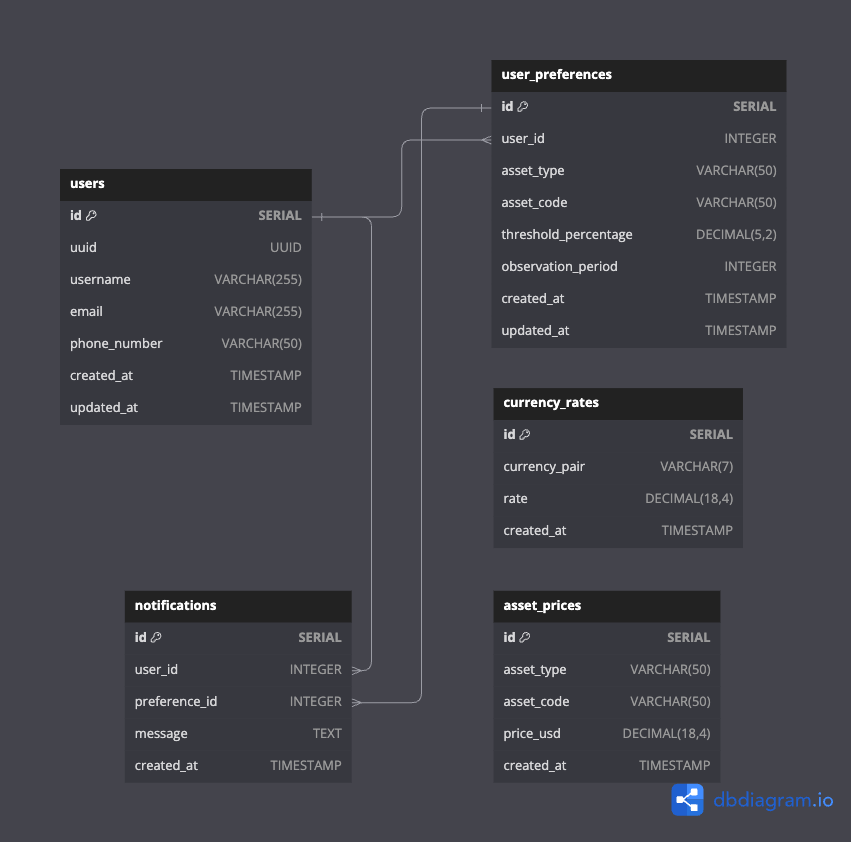
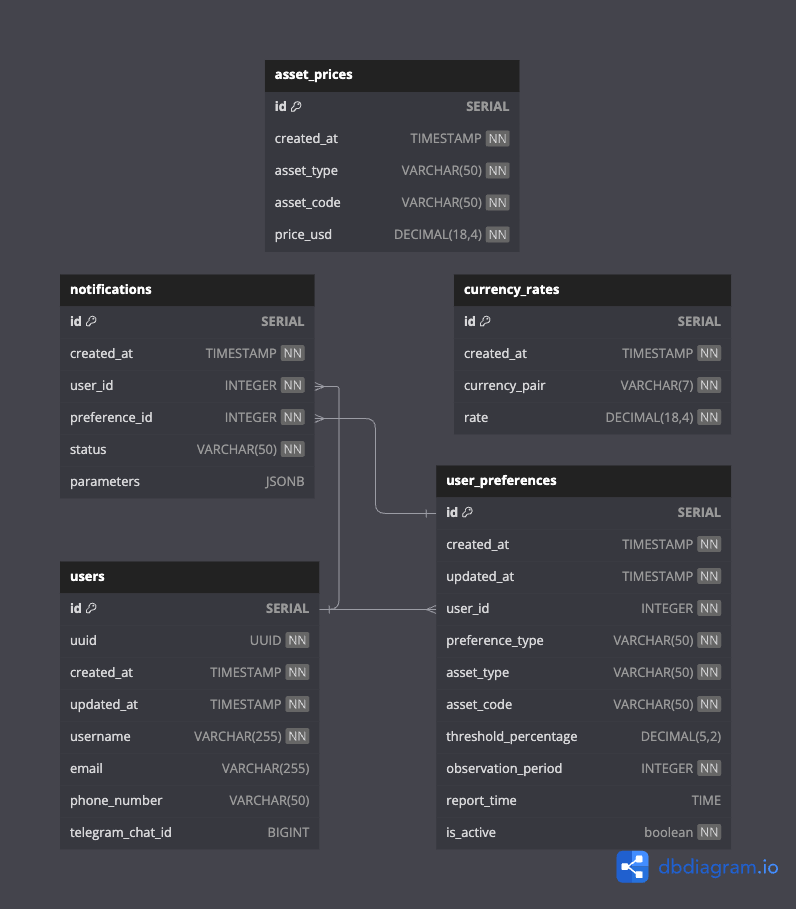
[ADD] integration with Telegram Bot API & revamp database schema (#34)
* [ADD] integration with Telegram Bot API & revamp database schema

* [UPDATE] ERD

Changed region(s): [[0.3317, 0.0618, 0.995, 0.9881], [0.0603, 0.1544, 0.4523, 0.5558], [0.0603, 0.4323, 0.4523, 0.9264]]

diff --git a/internal/service/crypto.go b/internal/service/crypto.go
@@ -70,7 +70,7 @@ func (cs *cryptoService) CryptoWatcher(ctx context.Context) error {
 	if err != nil {
 		logrus.WithFields(logrus.Fields{
 			"err": err.Error(),
-		}).Errorf("%s: Error Fetching & Storing Bitcoin Price [%s]", funcName, err)
+		}).Errorf("%s: Error Fetching & Storing Bitcoin Price", funcName)
 		return err
 	}
 
@@ -79,13 +79,11 @@ func (cs *cryptoService) CryptoWatcher(ctx context.Context) error {
 		logrus.WithFields(logrus.Fields{
 			"err":           err.Error(),
 			"currency_code": currency_const.IDR,
-		}).Errorf("%s: Error Getting Currency Price from Currency API [%s]", funcName, err)
+		}).Errorf("%s: Error Getting Currency Price from Currency API", funcName)
 		return err
 	}
 
-	usdPrice := format.ThousandSepartor(int64(*bitcoinPriceUSD), ',')
-	idrPrice := format.ThousandSepartor(int64(*bitcoinPriceUSD*(*rateUSDToIDR)), '.')
-	fmt.Printf("USD %s\nIDR %s\n", usdPrice, idrPrice)
+	go cs.DailyBitcoinPriceReport(ctx, bitcoinPriceUSD, rateUSDToIDR)
 
 	return nil
 }
@@ -108,21 +106,21 @@ func (cs *cryptoService) fetchCryptoPriceFromCoinGeckoAPIAndStore(ctx context.Co
 		logrus.WithFields(logrus.Fields{
 			"err":               err.Error(),
 			"coin_gecko_params": coinGeckoParams,
-		}).Errorf("%s: Error Getting Current Price from Coin Gecko [%s]", funcName, err)
+		}).Errorf("%s: Error Getting Current Price from Coin Gecko", funcName)
 		return nil, err
 	}
 
 	assetPrice := entity.AssetPrice{
 		AssetType: asset_const.CRYPTO,
 		AssetCode: assetCode,
-		PriceUsd:  float64(bitcoinPrice.Bitcoin.USD),
+		PriceUSD:  float64(bitcoinPrice.Bitcoin.USD),
 	}
 	err = cs.assetPriceRepo.InsertAssetPrice(ctx, assetPrice)
 	if err != nil {
 		logrus.WithFields(logrus.Fields{
 			"err":         err.Error(),
 			"asset_price": assetPrice,
-		}).Errorf("%s: Error Inserting Asset Price [%s]", funcName, err)
+		}).Errorf("%s: Error Inserting Asset Price", funcName)
 		return nil, err
 	}
 
@@ -138,7 +136,7 @@ func (cs cryptoService) convertCurrencyFromUSD(ctx context.Context, currencyCode
 		logrus.WithFields(logrus.Fields{
 			"err":  err.Error(),
 			"time": time.Now(),
-		}).Errorf("%s: Error Getting Currency Rate from DB [%s]", funcName, err)
+		}).Errorf("%s: Error Getting Currency Rate from DB", funcName)
 		return nil, err
 	}
 
@@ -148,7 +146,7 @@ func (cs cryptoService) convertCurrencyFromUSD(ctx context.Context, currencyCode
 			logrus.WithFields(logrus.Fields{
 				"err":           err.Error(),
 				"currency_code": currencyCode,
-			}).Errorf("%s: Error Fetching & Storing Currency Rate [%s]", funcName, err)
+			}).Errorf("%s: Error Fetching & Storing Currency Rate", funcName)
 			return nil, err
 		}
 	}
@@ -182,7 +180,7 @@ func (cs *cryptoService) fetchRateFromCurrencyConverterAPIAndStore(ctx context.C
 	if err != nil {
 		logrus.WithFields(logrus.Fields{
 			"err": err.Error(),
-		}).Errorf("%s: Error Getting Currency Price from Currency API [%s]", funcName, err)
+		}).Errorf("%s: Error Getting Currency Price from Currency API", funcName)
 		return nil, err
 	}
 
@@ -203,60 +201,46 @@ func (cs *cryptoService) fetchRateFromCurrencyConverterAPIAndStore(ctx context.C
 	err = cs.currencyRateRepo.InsertCurrencyRate(ctx, *currencyRate)
 	if err != nil {
 		logrus.WithFields(logrus.Fields{
-			"err": err.Error(),
-		}).Errorf("%s: Error Inserting Currency Rate to DB [%s]", funcName, err)
+			"err":           err.Error(),
+			"currency_rate": currencyRate,
+		}).Errorf("%s: Error Inserting Currency Rate to DB", funcName)
 	}
 
 	return currencyRate, nil
 }
 
-func (cs *cryptoService) DailyPriceReport(ctx context.Context, usdPrice, idrPrice string) error {
-	const funcName = "[internal][service]DailyPriceReport"
+func (cs *cryptoService) DailyBitcoinPriceReport(ctx context.Context, bitcoinPriceUSD, rateUSDToIDR *int) {
 
 	// TODO alert every x AM
 
 	// TODO (improvement): not only support bitcoin, get from user preference
+	var chatId int64 = 513439237
 
-	percentageIncrease := "3.5"
-	currentPriceUSD := "70,789"
-	currentPriceIDR := "1,141,897,359"
-	priceChangeUSD := "1,400"
-	priceChangeIDR := "20,000,000"
-	formattedDateTime := "Friday, 12 April 2024 - 05:50 PM"
+	// fmt.Println(time.Now().Format("15:04"))
 
-	text := fmt.Sprintf(telegram_bot_api.Bitcoin_price_alert_template,
-		percentageIncrease,
-		currentPriceUSD,
-		currentPriceIDR,
-		priceChangeUSD,
-		priceChangeIDR,
-		formattedDateTime,
-	)
-	err := cs.telegramBot.SendTelegramMessageByMessageId(513439237, text) // TODO: get chatId from users table (create new migration)
+	usdPrice := format.ThousandSepartor(int64(*bitcoinPriceUSD), ',')
+	idrPrice := format.ThousandSepartor(int64(*bitcoinPriceUSD*(*rateUSDToIDR)), '.')
+	fmt.Printf("USD %s\nIDR %s\n", usdPrice, idrPrice)
+
+	message := telegram_bot_api.BitcoinPriceAlert{
+		PercentageIncrease: "3.5",
+		CurrentPriceUSD:    usdPrice,
+		CurrentPriceIDR:    idrPrice,
+		PriceChangeUSD:     "1,400",
+		PriceChangeIDR:     "20,000,000",
+		FormattedDateTime:  format.GetCurrentTimeInFullFormat(),
+	}
+	go cs.sendTelegramMessage(chatId, &message)
+}
+
+func (cs *cryptoService) sendTelegramMessage(chatId int64, message telegram_bot_api.Message) {
+	const funcName = "[internal][service]sendTelegramMessage"
+	err := cs.telegramBot.SendTelegramMessageByMessageId(chatId, message.Message())
 	if err != nil {
 		logrus.WithFields(logrus.Fields{
-			"err": err.Error(),
+			"err":     err.Error(),
+			"message": message.Message(),
+			"chat_id": chatId,
 		}).Errorf("%s: Error Sending Message Via Telegram", funcName)
-		return err
 	}
-
-	// parameters := []string{
-	// 	"increased",
-	// 	"3.5",
-	// 	usdPrice,
-	// 	idrPrice,
-	// 	"up",
-	// 	"1,400",
-	// 	"yesterday",
-	// 	"20.000.000",
-	// 	format.GetCurrentTimeInFullFormat()}
-	// _, err := cs.waMessaging.SendWaMessageByTemplate(ctx, cs.cfg.WhatsAppTestPhoneNumber, whatsapp_cloud_api.BitcoinPriceAlert, parameters)
-	// if err != nil {
-	// 	logrus.WithFields(logrus.Fields{
-	// 		"err": err.Error(),
-	// 	}).Errorf("%s: Error Sending WA Message", funcName)
-	// 	return err
-	// }
-
-	return nil
 }

diff --git a/internal/repository/asset_price.go b/internal/repository/asset_price.go
@@ -36,12 +36,12 @@ func NewAssetPriceRepo(param AssetPriceRepoParam) AssetPriceRepo {
 
 func (ap *assetPriceRepo) InsertAssetPrice(ctx context.Context, assetPrice entity.AssetPrice) error {
 	const funcName = "[internal][repository]InsertAssetPrice"
-	result, err := ap.db.Exec(insertAssetPriceQuery, assetPrice.AssetType, assetPrice.AssetCode, assetPrice.PriceUsd)
+	result, err := ap.db.Exec(insertAssetPriceQuery, assetPrice.AssetType, assetPrice.AssetCode, assetPrice.PriceUSD)
 	if err != nil {
 		logrus.WithFields(logrus.Fields{
 			"err":         err.Error(),
 			"asset_price": assetPrice,
-		}).Errorf("%s: Error Inserting asset_price [%s]", funcName, err)
+		}).Errorf("%s: Error Inserting asset_price", funcName)
 		return err
 	}
 	rowsAffected, _ := result.RowsAffected()

diff --git a/internal/entity/user_preference.go b/internal/entity/user_preference.go
@@ -1,10 +1,15 @@
 package entity
 
+import "time"
+
 type UserPreference struct {
 	BaseEntity
-	UserId              int64   `db:"user_id"`
-	AssetType           string  `db:"asset_type"`
-	AssetCode           string  `db:"asset_code"`
-	ThresholdPercentage float64 `db:"threshold_percentage"`
-	ObservationPeriod   int64   `db:"observation_period"`
+	UserId              int64      `db:"user_id"`
+	PreferenceType      string     `db:"preference_type"`
+	AssetType           string     `db:"asset_type"`
+	AssetCode           string     `db:"asset_code"`
+	ThresholdPercentage *float64   `db:"threshold_percentage"`
+	ObservationPeriod   int64      `db:"observation_period"`
+	ReportTime          *time.Time `db:"report_time"`
+	IsActive            bool       `db:"is_active"`
 }

diff --git a/internal/repository/currency_rate.go b/internal/repository/currency_rate.go
@@ -52,7 +52,7 @@ func (cr *currencyRateRepo) GetCurrencyRateByDate(ctx context.Context, currencyP
 		logrus.WithFields(logrus.Fields{
 			"err":  err.Error(),
 			"date": date,
-		}).Errorf("%s: Query Error [%s]", funcName, err)
+		}).Errorf("%s: Query Error", funcName)
 		return nil, err
 	}
 	return &result, nil
@@ -65,7 +65,7 @@ func (cr *currencyRateRepo) InsertCurrencyRate(ctx context.Context, currencyRate
 		logrus.WithFields(logrus.Fields{
 			"err":           err.Error(),
 			"currency_rate": currencyRate,
-		}).Errorf("%s: Error Inserting currency_rates [%s]", funcName, err)
+		}).Errorf("%s: Error Inserting currency_rates", funcName)
 		return err
 	}
 	rowsAffected, _ := result.RowsAffected()

diff --git a/pkg/telegram_bot_api/message_builder.go b/pkg/telegram_bot_api/message_builder.go
@@ -1,0 +1,30 @@
+package telegram_bot_api
+
+import "fmt"
+
+type (
+	Message interface {
+		Message() string
+	}
+
+	BitcoinPriceAlert struct {
+		PercentageIncrease string
+		CurrentPriceUSD    string
+		CurrentPriceIDR    string
+		PriceChangeUSD     string
+		PriceChangeIDR     string
+		FormattedDateTime  string
+	}
+)
+
+func (b *BitcoinPriceAlert) Message() string {
+	return fmt.Sprintf(
+		bitcoin_price_alert_template,
+		b.PercentageIncrease,
+		b.CurrentPriceUSD,
+		b.CurrentPriceIDR,
+		b.PriceChangeUSD,
+		b.PriceChangeIDR,
+		b.FormattedDateTime,
+	)
+}

diff --git a/pkg/telegram_bot_api/constant.go b/pkg/telegram_bot_api/constant.go
@@ -5,14 +5,14 @@ const (
 	HTML = "HTML"
 
 	// Templates
-	Bitcoin_price_alert_template = `
+	bitcoin_price_alert_template = `
 	<b>🚨 Bitcoin Price Alert</b>
 	
 	Trigger: <b>Bitcoin</b> has <b>increased by %s%%</b> in the last 24 hours.
 			
 	<b>Current Price:</b> 
-	- <b>USD:</b> $%s
-	- <b>IDR:</b> Rp%s
+	- USD: <b>$%s</b>
+	- IDR: <b>Rp%s</b>
 			
 	<b>Comparison:</b> 
 	- The price in <b>USD</b> is <b>up $%s</b> from yesterday.

diff --git a/internal/entity/asset_price.go b/internal/entity/asset_price.go
@@ -1,11 +1,8 @@
 package entity
 
-import "time"
-
 type AssetPrice struct {
-	Id        int64     `db:"id"`
-	AssetType string    `db:"asset_type"`
-	AssetCode string    `db:"asset_code"`
-	PriceUsd  float64   `db:"price_usd"`
-	CreatedAt time.Time `db:"created_at"`
+	BaseEntity
+	AssetType string  `db:"asset_type"`
+	AssetCode string  `db:"asset_code"`
+	PriceUSD  float64 `db:"price_usd"`
 }

diff --git a/internal/entity/base.go b/internal/entity/base.go
@@ -3,8 +3,8 @@ package entity
 import "time"
 
 type BaseEntity struct {
-	Id        int64     `db:"id"`
-	Uuid      string    `db:"uuid"`
-	CreatedAt time.Time `db:"created_at"`
-	UpdatedAt time.Time `db:"updated_at"`
+	Id        int64      `db:"id"`
+	Uuid      *string    `db:"uuid"`
+	CreatedAt *time.Time `db:"created_at"`
+	UpdatedAt *time.Time `db:"updated_at"`
 }

diff --git a/internal/entity/user.go b/internal/entity/user.go
@@ -2,7 +2,8 @@ package entity
 
 type User struct {
 	BaseEntity
-	Username    string `db:"username"`
-	Email       string `db:"email"`
-	PhoneNumber string `db:"phone_number"`
+	Username       string  `db:"username"`
+	Email          *string `db:"email"`
+	PhoneNumber    *string `db:"phone_number"`
+	TelegramChatId *int64  `db:"telegram_chat_id"`
 }

diff --git a/internal/entity/currency_rate.go b/internal/entity/currency_rate.go
@@ -1,10 +1,7 @@
 package entity
 
-import "time"
-
 type CurrencyRate struct {
-	Id           int64     `db:"id"`
-	CurrencyPair string    `db:"currency_pair"`
-	Rate         float64   `db:"rate"`
-	CreatedAt    time.Time `db:"created_at"`
+	BaseEntity
+	CurrencyPair string  `db:"currency_pair"`
+	Rate         float64 `db:"rate"`
 }

diff --git a/internal/entity/notification.go b/internal/entity/notification.go
@@ -4,5 +4,6 @@ type Notification struct {
 	BaseEntity
 	UserId       int64  `db:"user_id"`
 	PreferenceId int64  `db:"preference_id"`
+	Status       string `db:"status"`
 	Parameters   []byte `db:"parameters"`
 }

diff --git a/pkg/telegram_bot_api/telegram_bot.go b/pkg/telegram_bot_api/telegram_bot.go
@@ -45,5 +45,5 @@ func (t *telegramBot) SendTelegramMessageByMessageId(chatId int64, message strin
 		return err
 	}
 
-	return err
+	return nil
 }
